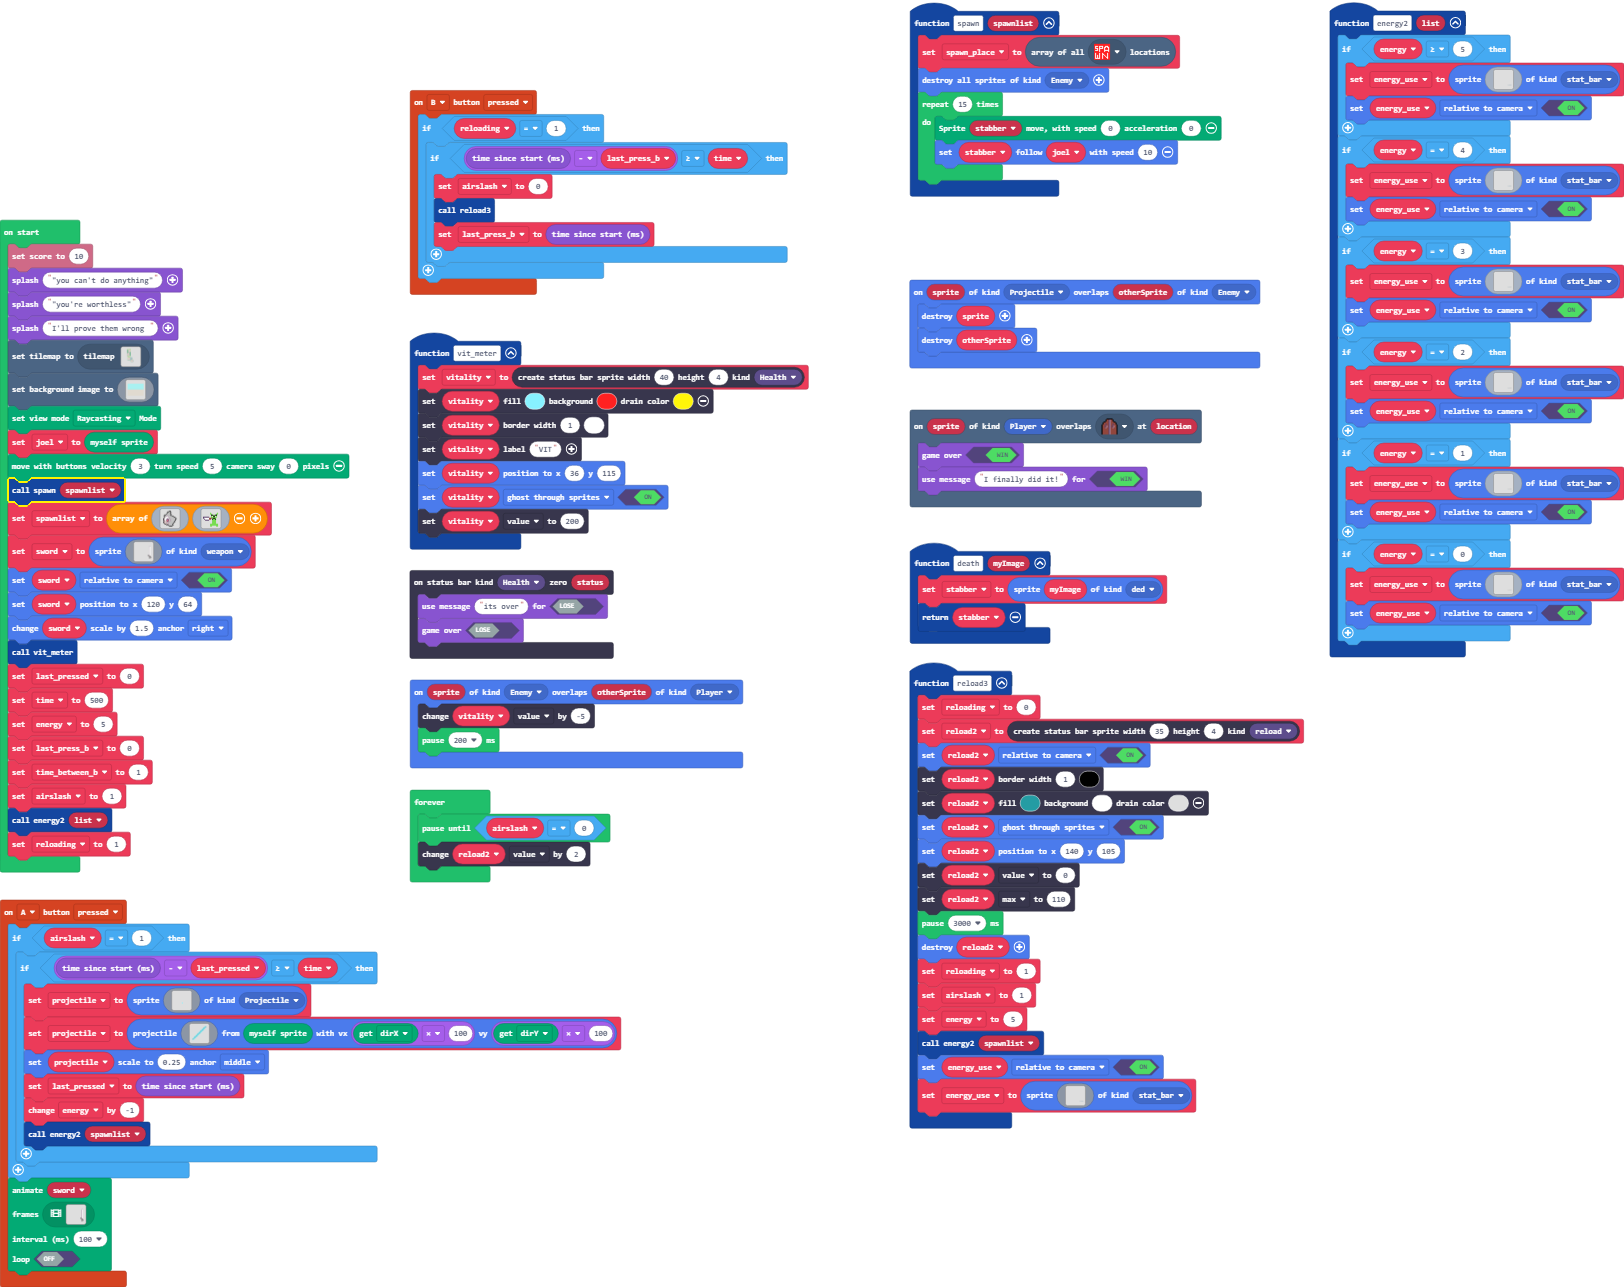
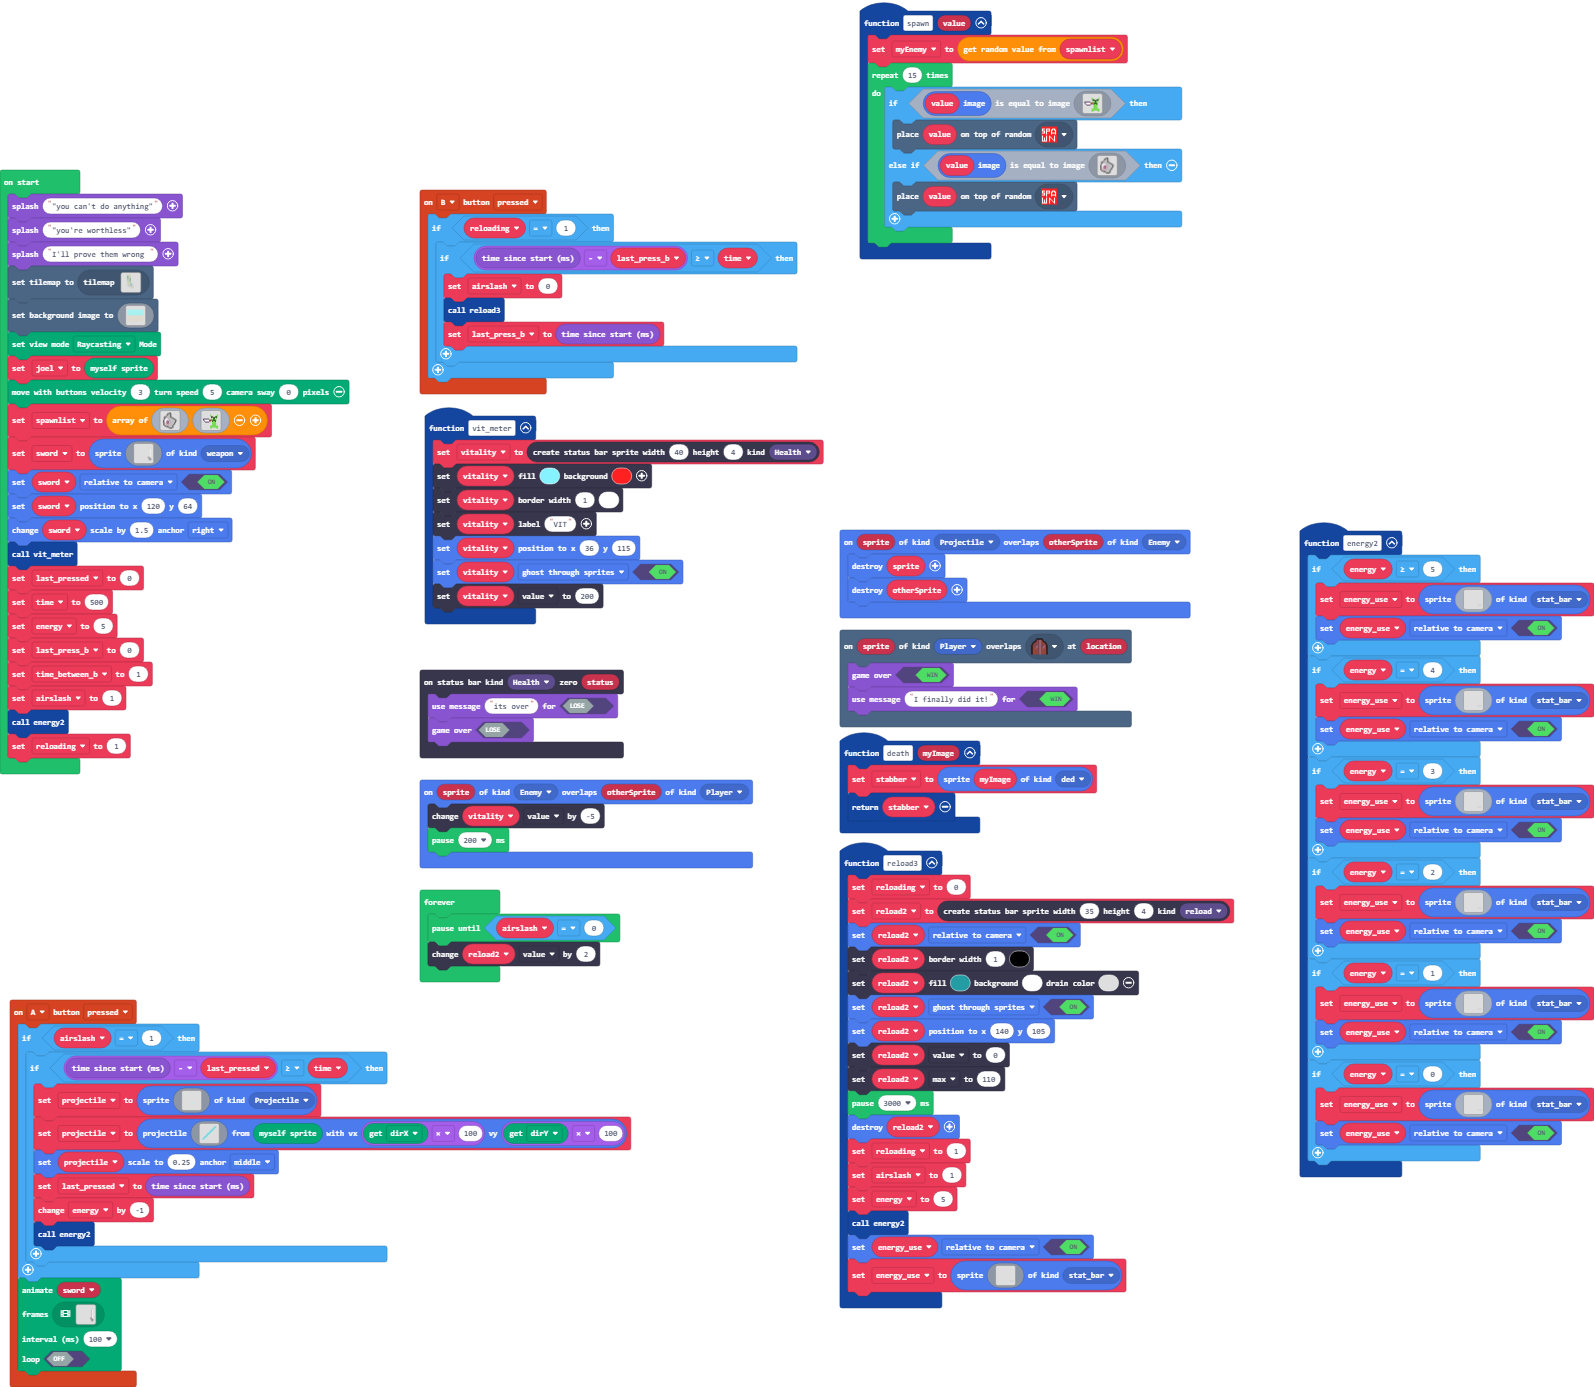
Update main.blocks, main.ts, tilemap.g.jres, tilemap.g.ts

diff --git a/main.ts b/main.ts
@@ -15,7 +15,7 @@ controller.B.onEvent(ControllerButtonEvent.Pressed, function () {
         }
     }
 })
-function energy2 (list: any[]) {
+function energy2 () {
     if (energy >= 5) {
         energy_use = sprites.create(assets.image`5energy_bar`, SpriteKind.stat_bar)
         energy_use.setFlag(SpriteFlag.RelativeToCamera, true)
@@ -49,7 +49,7 @@ controller.A.onEvent(ControllerButtonEvent.Pressed, function () {
             projectile.setScale(0.25, ScaleAnchor.Middle)
             last_pressed = game.runtime()
             energy += -1
-            energy2(spawnlist)
+            energy2()
         }
     }
     animation.runImageAnimation(
@@ -74,7 +74,7 @@ function reload3 () {
     reloading = 1
     airslash = 1
     energy = 5
-    energy2(spawnlist)
+    energy2()
     energy_use.setFlag(SpriteFlag.RelativeToCamera, true)
     energy_use = sprites.create(assets.image`5energy_bar`, SpriteKind.stat_bar)
 }
@@ -84,7 +84,7 @@ function death (myImage: Image) {
 }
 function vit_meter () {
     vitality = statusbars.create(40, 4, StatusBarKind.Health)
-    vitality.setColor(9, 2, 5)
+    vitality.setColor(9, 2)
     vitality.setBarBorder(1, 1)
     vitality.setLabel("VIT")
     vitality.setPosition(36, 115)
@@ -103,26 +103,27 @@ scene.onOverlapTile(SpriteKind.Player, assets.tile`door`, function (sprite, loca
     game.gameOver(true)
     game.setGameOverMessage(true, "I finally did it!")
 })
-function spawn (spawnlist: any[]) {
-    spawn_place = tiles.getTilesByType(assets.tile`enemyspawn`)
-    sprites.destroyAllSpritesOfKind(SpriteKind.Enemy)
+function spawn (value: Sprite) {
+    myEnemy = spawnlist._pickRandom()
     for (let index = 0; index < 15; index++) {
-        Render.move(stabber, 0, 0)
-        stabber.follow(joel, 10)
+        if (value.image.equals(assets.image`stabby`)) {
+            tiles.placeOnRandomTile(value, assets.tile`enemyspawn`)
+        } else if (value.image.equals(assets.image`dusk`)) {
+            tiles.placeOnRandomTile(value, assets.tile`enemyspawn`)
+        }
     }
 }
 sprites.onOverlap(SpriteKind.Projectile, SpriteKind.Enemy, function (sprite, otherSprite) {
     sprites.destroy(sprite)
     sprites.destroy(otherSprite)
 })
-let spawn_place: tiles.Location[] = []
+let myEnemy: Image = null
 let vitality: StatusBarSprite = null
 let stabber: Sprite = null
 let reload2: StatusBarSprite = null
 let projectile: Sprite = null
 let energy_use: Sprite = null
 let reloading = 0
-let list: number[] = []
 let airslash = 0
 let last_press_b = 0
 let energy = 0
@@ -130,17 +131,14 @@ let time = 0
 let last_pressed = 0
 let sword: Sprite = null
 let spawnlist: Image[] = []
-let joel: Sprite = null
-info.setScore(10)
 game.splash("\"you can't do anything\"")
 game.splash("\"you're worthless\"")
 game.splash("I'll prove them wrong ")
 tiles.setCurrentTilemap(tilemap`level`)
 scene.setBackgroundImage(assets.image`back`)
 Render.setViewMode(ViewMode.raycastingView)
-joel = Render.getRenderSpriteVariable()
+let joel = Render.getRenderSpriteVariable()
 Render.moveWithController(3, 5, 0)
-spawn(spawnlist)
 spawnlist = [assets.image`dusk`, assets.image`stabby`]
 sword = sprites.create(assets.image`sword`, SpriteKind.weapon)
 sword.setFlag(SpriteFlag.RelativeToCamera, true)
@@ -153,7 +151,7 @@ energy = 5
 last_press_b = 0
 let time_between_b = 1
 airslash = 1
-energy2(list)
+energy2()
 reloading = 1
 forever(function () {
     pauseUntil(() => airslash == 0)

diff --git a/tilemap.g.ts b/tilemap.g.ts
@@ -8,6 +8,8 @@ namespace myTiles {
     export const tile4 = image.ofBuffer(hex``);
     //% fixedInstance jres blockIdentity=images._tile
     export const tile1 = image.ofBuffer(hex``);
+    //% fixedInstance jres blockIdentity=images._tile
+    export const tile2 = image.ofBuffer(hex``);
 
     helpers._registerFactory("tilemap", function(name: string) {
         switch(helpers.stringTrim(name)) {
@@ -117,6 +119,8 @@ namespace myTiles {
             case "tile4":return tile4;
             case "ground":
             case "tile1":return tile1;
+            case "spawn2":
+            case "tile2":return tile2;
         }
         return null;
     })
